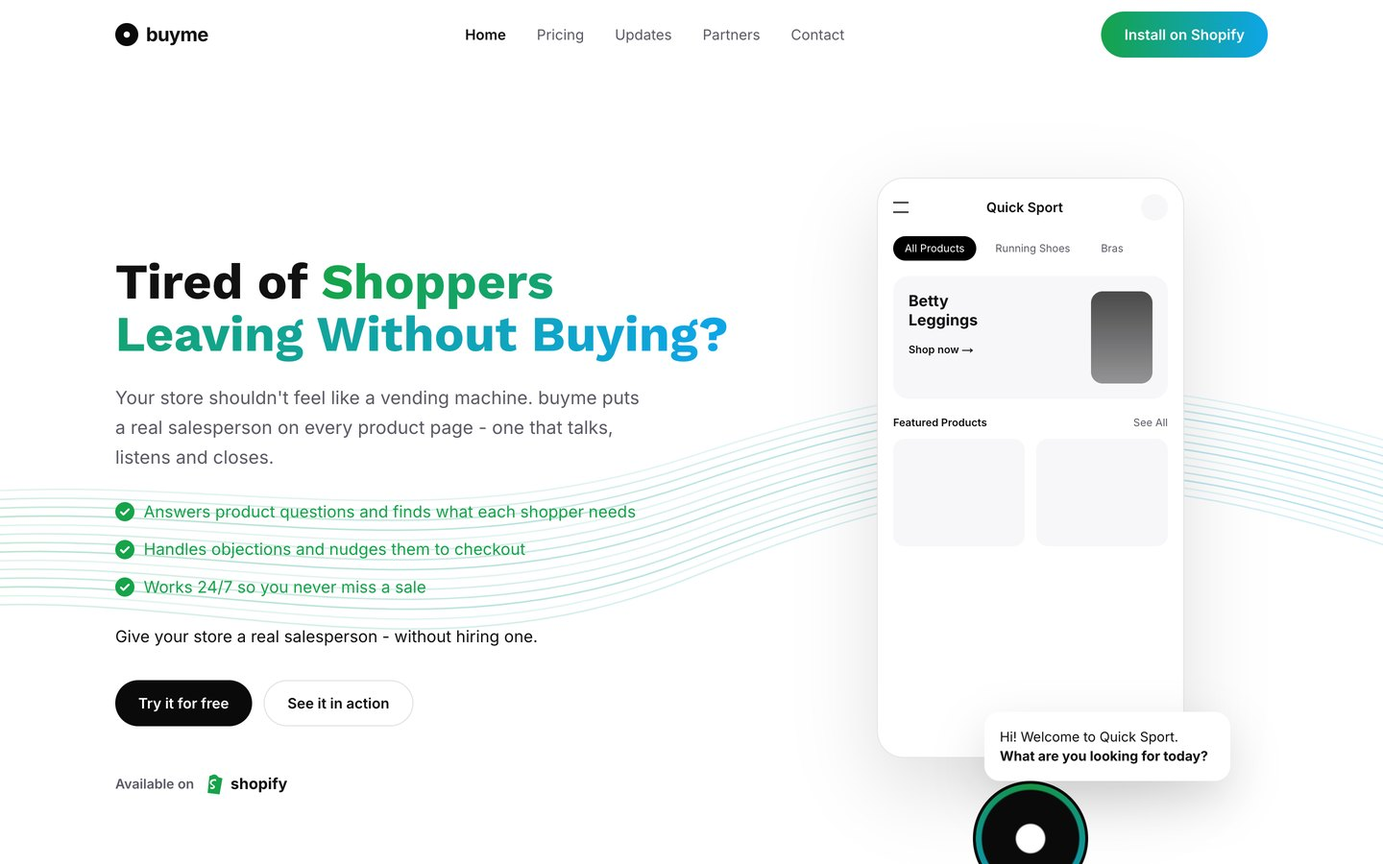
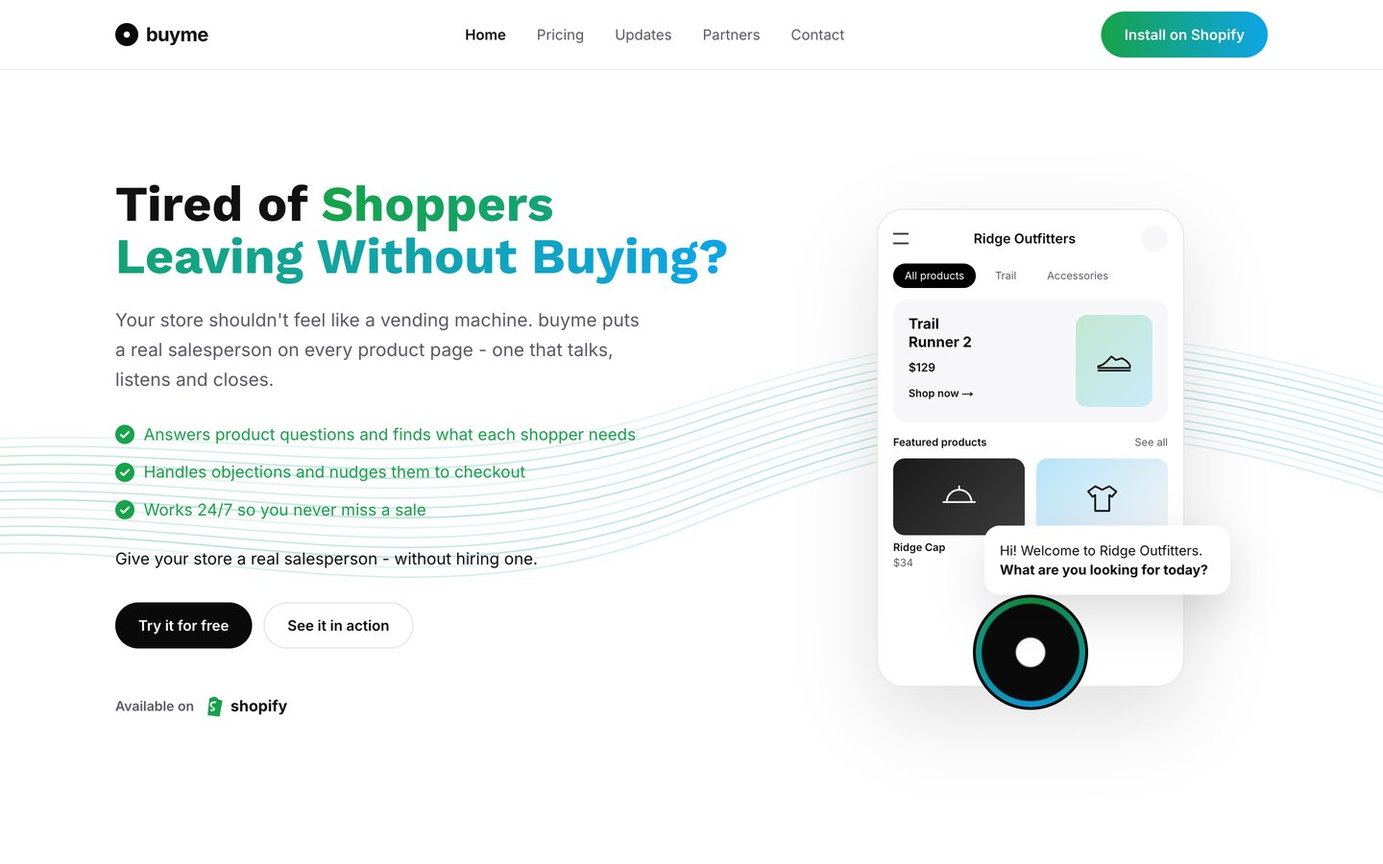
init

Changed region(s): [[0.0, 0.2178, 1.0, 1.0], [0.0938, 0.9022, 0.2188, 0.9333]]

diff --git a/scripts/record-showcase.py b/scripts/record-showcase.py
@@ -1,0 +1,120 @@
+#!/usr/bin/env python3
+"""Record the README walkthrough GIFs from the showcase builds.
+
+Needs the builds running first (any ports; pass the URLs):
+  cd output/buyme  && npm run build && npx next start -p 3127          # production, no dev overlay
+  cd output/justdo && npx expo export --platform web && \
+      python3 -c "import http.server,functools;h=http.server.SimpleHTTPRequestHandler;http.server.ThreadingHTTPServer(('',3126),functools.partial(h,directory='dist')).serve_forever()"
+  python3.12 scripts/record-showcase.py docs/showcase http://localhost:3127 http://localhost:3126
+
+Playwright (python) and ffmpeg must be installed. ONLY=buyme|justdo records one app.
+JustDo's static export lacks clean-URL routing; serve it with a handler that maps
+/week -> week.html (see the critic's notes) or record against `npx expo start --web`.
+"""
+import subprocess, sys, pathlib, shutil, time
+READY = {"t": 0.6}
+T0 = time.time()
+def log(msg): print(f"[{time.time()-T0:6.2f}s] {msg}", flush=True)
+def tap(loc, wait=800, what=""):
+    try:
+        loc.click(timeout=6000); log(f"tap {what or loc}")
+    except Exception as e:
+        log(f"SKIP {what or loc}: {str(e).splitlines()[0][:90]}")
+from playwright.sync_api import sync_playwright
+
+OUT = pathlib.Path(sys.argv[1]); OUT.mkdir(parents=True, exist_ok=True)
+BUYME = sys.argv[2] if len(sys.argv) > 2 else "http://localhost:3127"
+JUSTDO = sys.argv[3] if len(sys.argv) > 3 else "http://localhost:3126"
+HIDE = "nextjs-portal,#__next-build-watcher,[data-nextjs-toast],[data-next-badge-root]{display:none!important}"
+
+def scroll_to(page, y, ms):
+    """Animate window scroll to y over ms with ease-in-out - smooth on video, no per-event overhead."""
+    page.evaluate("""([y, ms]) => new Promise(res => {
+      const y0 = scrollY, d = y - y0, t0 = performance.now();
+      const step = t => { const k = Math.min(1, (t - t0) / ms); const e = k < .5 ? 2*k*k : -1 + (4 - 2*k)*k;
+        scrollTo(0, y0 + d*e); if (k < 1) requestAnimationFrame(step); else res(); };
+      requestAnimationFrame(step); })""", [y, ms])
+
+def smooth_scroll(page, total, step=90, pause=45):
+    done = 0
+    while done < total:
+        page.mouse.wheel(0, step); done += step; page.wait_for_timeout(pause)
+
+def to_gif(webm, gif, width, fps=10, colors=128, trim=0.6):
+    subprocess.run(["ffmpeg", "-y", "-loglevel", "error", "-ss", str(trim), "-i", str(webm),
+        "-vf", f"fps={fps},scale={width}:-1:flags=lanczos,split[a][b];[a]palettegen=max_colors={colors}:stats_mode=diff[p];[b][p]paletteuse=dither=bayer:bayer_scale=4:diff_mode=rectangle",
+        "-loop", "0", str(gif)], check=True)
+    print(gif.name, round(gif.stat().st_size / 1024), "KB")
+
+def record(p, name, w, h, mobile, run):
+    tmp = OUT / f"_{name}"; shutil.rmtree(tmp, ignore_errors=True)
+    browser = p.chromium.launch()
+    READY["t0"] = time.time()
+    ctx = browser.new_context(viewport={"width": w, "height": h}, device_scale_factor=1,
+        is_mobile=mobile, has_touch=mobile, record_video_dir=str(tmp), record_video_size={"width": w, "height": h})
+    page = ctx.new_page()
+    run(page)
+    log("run done"); video = page.video.path(); ctx.close(); log("closed")
+    dst = OUT / f"{name}.webm"; shutil.move(video, dst); shutil.rmtree(tmp, ignore_errors=True)
+    return dst
+
+def ready(page):
+    """Call once the first screen is on; the GIF is trimmed to start here."""
+    READY["t"] = max(0.0, time.time() - READY["t0"] - 0.25)
+
+def buyme(page):
+    log("goto"); page.goto(BUYME, wait_until="load"); page.add_style_tag(content=HIDE); page.wait_for_timeout(600); ready(page); log("ready")
+    page.get_by_role("link", name="Install on Shopify").first.hover(); page.wait_for_timeout(450)
+    page.get_by_role("link", name="Try it for free").first.hover(); page.wait_for_timeout(450)
+    page.mouse.move(640, 500)
+    top = lambda sel: page.locator(sel).evaluate("el => el.getBoundingClientRect().top + scrollY")
+    log("hero done"); scroll_to(page, top("#agent-features") - 60, 1100); page.wait_for_timeout(500); log("features")
+    scroll_to(page, top("#shopify") - 60, 1100); page.wait_for_timeout(500)
+    scroll_to(page, top("#install") - 60, 1000); page.wait_for_timeout(450)
+    scroll_to(page, top("#faq") - 40, 1300); page.wait_for_timeout(350); log("faq")
+    summaries = page.locator("#faq summary")
+    summaries.nth(1).click(); page.wait_for_timeout(700)
+    summaries.nth(3).click(); page.wait_for_timeout(700)
+    page.mouse.move(640, 400)
+    scroll_to(page, page.evaluate("document.documentElement.scrollHeight"), 1200)
+    page.get_by_role("link", name="Install on Shopify").last.hover(); page.wait_for_timeout(900); log("end")
+
+def tap_text(page, text, wait=900):
+    tap(page.get_by_text(text, exact=True).locator("visible=true").last, what=text); page.wait_for_timeout(wait); return True
+
+def justdo(page):
+    page.goto(JUSTDO + "/onboarding/event", wait_until="load"); page.wait_for_timeout(900); ready(page)
+    tap_text(page, "Yes", 500); tap_text(page, "Cycling", 500); tap_text(page, "Next", 1000)
+    tap_text(page, "Reach peak performance", 500); tap_text(page, "Next", 1000)
+    # drag the first rating slider
+    box = None
+    try:
+        box = page.get_by_role("slider").locator("visible=true").first.bounding_box(timeout=4000)
+    except Exception as e:
+        log(f"SKIP slider: {str(e).splitlines()[0][:80]}")
+    if box:
+        y = box["y"] + box["height"] / 2
+        page.mouse.move(box["x"] + box["width"] * 0.3, y); page.mouse.down()
+        for i in range(12): page.mouse.move(box["x"] + box["width"] * (0.3 + 0.5 * i / 11), y); page.wait_for_timeout(40)
+        page.mouse.up(); page.wait_for_timeout(500)
+    tap_text(page, "Build my plan", 1100)
+    page.mouse.move(195, 400)
+    tap(page.get_by_label("Open training calendar").locator("visible=true").last, what="calendar"); page.wait_for_timeout(1300)
+    page.mouse.click(195, 120); page.wait_for_timeout(600)
+    tap_text(page, "Week 1", 1000)
+    tap_text(page, "Types of Goals", 1100)
+    page.go_back(); page.wait_for_timeout(600); page.go_back(); page.wait_for_timeout(700)
+    tab = page.locator('a[href="/progress"]').locator("visible=true").first
+    tap(tab, what="progress tab"); page.wait_for_timeout(900)
+    tap(page.get_by_label("Focus session stats").locator("visible=true").last, what="stats"); page.wait_for_timeout(1200)
+    tap(page.get_by_label("Next skill").locator("visible=true").last, what="next skill"); page.wait_for_timeout(900)
+    page.mouse.click(195, 120); page.wait_for_timeout(500)
+    page.mouse.move(195, 500); smooth_scroll(page, 700, step=50, pause=40); page.wait_for_timeout(1000)
+
+import os
+ONLY = os.environ.get("ONLY")
+with sync_playwright() as p:
+    if ONLY in (None, "buyme"):
+        v = record(p, "buyme-walkthrough", 1280, 800, False, buyme); to_gif(v, OUT / "buyme-walkthrough.gif", 640, fps=10, colors=96, trim=READY["t"])
+    if ONLY in (None, "justdo"):
+        v = record(p, "justdo-walkthrough", 390, 844, True, justdo); to_gif(v, OUT / "justdo-walkthrough.gif", 300, fps=10, colors=96, trim=READY["t"])

diff --git a/src/designice/snapshot.py b/src/designice/snapshot.py
@@ -36,6 +36,10 @@ REVEAL_JS = (
     "document.querySelectorAll('[data-reveal]')"
     ".forEach(n => n.setAttribute('data-reveal', 'shown'))"
 )
+HYDRATED_JS = (
+    "() => !document.querySelector('[data-reveal]')"
+    " || !!document.querySelector('[data-reveal=\"shown\"]')"
+)
 # Sticky navs overlap element screenshots taken further down the page.
 UNSTICK_JS = """() => {
   for (const el of document.querySelectorAll('body *')) {
@@ -165,6 +169,13 @@ def _capture_viewport(browser, url, out, name, w, h, is_mobile, sections, settle
     page.goto(url, wait_until="networkidle", timeout=timeout_ms)
     page.add_style_tag(content=HIDE_DEV_CSS)
     page.evaluate("document.fonts ? document.fonts.ready : true")
+    # Forcing reveal-on-scroll elements visible before React has hydrated would
+    # register as a hydration mismatch, so wait until the first above-the-fold
+    # one has been revealed by the app itself (or there are none to reveal).
+    try:
+        page.wait_for_function(HYDRATED_JS, timeout=min(timeout_ms, 8000))
+    except Exception:
+        pass
     page.evaluate(REVEAL_JS)
     page.wait_for_timeout(settle_ms)
 

diff --git a/tests/test_snapshot.py b/tests/test_snapshot.py
@@ -65,6 +65,9 @@ class FakePage:
     def wait_for_timeout(self, ms):
         pass
 
+    def wait_for_function(self, script, timeout=None):
+        assert "data-reveal" in script
+
     def screenshot(self, path, full_page=False):
         self.shots.append(path)
         open(path, "wb").write(PNG)

diff --git a/docs/showcase/justdo-critique.md b/docs/showcase/justdo-critique.md
@@ -1,0 +1,57 @@
+# Critique - justdo vs mobile-app-ui-ux-designer-web-design-for-getahead-mobile-app
+
+**Verdict:** Fix 3 must-fix items, then ship
+**Reviewed:** web export at 390x844 (react-native-web, DPR 2) - `designice snapshot` per route plus a Playwright DOM pass (`verify/critique/*/mobile-full.png`, `mobile-tall.png`, `measure.json`); `/session/1` reached by client-side navigation from `/week`; `tsc --noEmit` clean. Not run on a device.
+
+## Region fidelity
+| # | Region (reference) | Build | Status | Note |
+|---|---|---|---|---|
+| 1 | My Plan header - avatar top-right, title + plan name (img1) | (tabs)/index | match | |
+| 2 | Two square cards - play disc / calendar + 4 segments (img1) | (tabs)/index | drift | "4 weeks 2 days" wraps to 2 lines (18px bold); 1 line in ref |
+| 3 | Finished-plan card - icon, title, sub, full-width accent pill (img4) | (tabs)/index | match | |
+| 4 | Week row - "Week 1 >" one line + 5 icon discs, first lit (img4) | (tabs)/index | drift | chevron drops under the title (style loss, see 1) |
+| 5 | Tab bar - 5 slots, raised + disc, active white (img1/3) | (tabs)/_layout | match | 1px top hairline not in ref |
+| 6 | - | Brands strip on My Plan / More | added | requested in the brief's section list; not flagged |
+| 7 | Onboarding event - back/progress/close, Yes/No segment, 12 chips, Next docked (img2) | onboarding/event | drift | Next inline, 220px empty below |
+| 8 | Onboarding goal - 2x2 radio cards, Next docked (img2) | onboarding/goal | drift | Next inline, 135px empty below |
+| 9 | Skills wheel + -/+ stepper (img2) | - | missing | |
+| 10 | Calendar sheet - month grid, session dots, legend (img2) | - | missing | |
+| 11 | Session detail - header over photo, 3 pill rows, recap + Start Session (img3) | session/[id] | drift | flat #141414 slab, no photo |
+| 12 | Week list - title, intro, session cards with chip row (img3/img6) | week | drift | cards lost fill, padding and tint |
+| 13 | Rating sliders - draggable glowing thumb (img3/img5) | onboarding/rating | drift | 10 tap stops, no drag, no glow |
+| 14 | Mood list - 5 pill rows, face disc, radio, selected border (img3) | (tabs)/check-in | match | |
+| 15 | Emotion chips - 2 cols, label + radio (img3) | (tabs)/check-in | drift | no radio, label centred |
+| 16 | Mental strength rating screen (img5) | onboarding/rating | match | sliders aside |
+| 17 | Progress - avatar, title, scrolling tab strip, intro, My Progress rows (img5) | (tabs)/progress | drift | tab strip fixed; 4th tab clipped |
+| 18 | Session Stats sheet - 90% ring, 3 tiles, prev / Focus / next (img6) | (tabs)/progress | drift | inline card, not a sheet; ring renders 100% |
+| - | - | Support, More, check-in title | no reference | not reviewed for fidelity |
+
+## Must fix
+1. **`Link asChild` drops every function-style on its Pressable - week cards and the Week row lose their layout** - Reference: image_original6 (left) / image_original3 (right) - each session is a #1F1F1F card, ~24px radius, ~16px padding, ~120px tall, first one tinted; image_original4 - "Week 1" and ">" share one line. Build: `verify/critique/week/mobile-full.png` - rows are 350x80 with no fill, no padding, no tint, chips flush under the disc; `verify/critique/index/mobile-full.png` - the chevron renders on its own line under "Week 1" (link box 350x48). Cause: expo-router's `Link asChild` merges its own `style` with the child's, so a function `style` becomes `[undefined, fn]` and is discarded (`styles.row`, the `${color}14` tint, `styles.weekRow` never apply; the Button inside Link survives only because its `style` prop is a plain object). Fix: `app/week.tsx` lines 40-56 and `app/(tabs)/index.tsx` lines 72-77 - drop `Link asChild`; `useRouter()` (already imported in week.tsx) and `<Pressable onPress={() => router.push({ pathname: "/session/[id]", params: { id: s.id } })} style={({ pressed }) => [...]}>` / `router.push("/week")`. If you must keep Link, move all visual styles to an inner `<View style={styles.row}>`.
+2. **Skills wheel and calendar widgets are missing** - Reference: image_original2 bottom-left - radial skills wheel: 5 coloured sectors (one per skill) over ~10 concentric rings, smiley centre, -/+ stepper with 10 segments (6 lit); bottom-right - month sheet: grabber, "< September >", Mon-Sun header, 5-row grid of round day cells, ring on today, dots on session days (12, 17, 18), "Training Sessions" legend pill. LAYOUT.md lists both (#9, #10). Build: none of the 10 routes has either (no calendar or wheel in `app/` or `components/`). Fix: `components/SkillWheel.tsx` - `npx expo install react-native-svg`; 10 concentric `Circle` rings + 5 `Path` sectors filled from `theme.colors.skill`, smiley centre, stepper row (round - / 10 segments / round +); mount under the My Progress list in `app/(tabs)/progress.tsx` (Overview tab). `components/CalendarSheet.tsx` - `Modal transparent` bottom sheet with grabber, 7-column grid of 44px round cells, dot on session days, legend pill; open it from the "4 weeks 2 days" card in `app/(tabs)/index.tsx` (wrap that Card in a Pressable).
+3. **Session Stats ring ignores its value** - Reference: image_original6 (right) - the 90% ring has a ~36 degree dark gap at the top-right, ~16px stroke. Build: `verify/critique/progress/mobile-tall.png` - the ring is #E10600 at all 24 sampled angles (0-345 degrees): a 100% ring next to a "90%" label. Cause: `components/ui/Ring.tsx` lines 20-27 paint all four border sides of both half-circles in `color`, so rotating them changes nothing. Fix: `components/ui/Ring.tsx` - once react-native-svg is in for the wheel, draw a hairline track `Circle` and an arc `Circle` with `strokeWidth={stroke} strokeDasharray={`${c * value / 100} ${c}`} strokeLinecap="round" transform="rotate(-90)"`; if you keep Views, each rotating circle must be a half-ring (`borderLeftColor` and `borderBottomColor: "transparent"`), not a full one.
+
+## Should fix
+4. **Onboarding "Next" is not docked to the bottom** - Reference: image_original2 - on both onboarding phones the white Next pill sits at the bottom edge (pill bottom ~4% above the screen edge). Build: `verify/critique/onboarding-event/mobile-full.png` - Next spans y 568-624 of 844 with 220px of empty black below; `onboarding-goal` - y 653-709, 135px empty. Fix: `components/Screen.tsx` `content: { flexGrow: 1, paddingBottom: theme.spacing.xl }`; `app/onboarding/event.tsx` and `goal.tsx` - wrap the Button in `<View style={{ marginTop: "auto", paddingTop: 24, paddingBottom: insets.bottom }}>` with `useSafeAreaInsets()`; this also gives stack screens the bottom inset that `Screen` (edges top/left/right) currently leaves to iOS-only `contentInsetAdjustmentBehavior`.
+5. **Session Stats is an inline card, the reference is a bottom sheet** - Reference: image_original6 (right) - sheet with grabber and ~28px top corners rising from ~45% of the screen over a dimmed page; ring ~62% of screen width; pager row at the sheet's foot. Build: `verify/critique/progress/mobile-tall.png` - a Card at y 801-1180 of a 1260px scroll, sixth block in the column; ring 180px (46% of width); no grabber, no scrim. Fix: `app/(tabs)/progress.tsx` - move the stats block into a `Modal transparent animationType="slide"` sheet (`backgroundColor: theme.colors.surface`, `borderTopLeftRadius/borderTopRightRadius: 28`, 36x4 grabber, scrim `rgba(0,0,0,0.6)`), opened by tapping a My Progress row; `<Ring size={240} stroke={16} />`.
+6. **Progress tab strip is fixed, so the fourth tab is unreachable** - Reference: image_original5 (right) - Overview / Achievements / Emotions / Me... runs off the right edge as a horizontally scrolling strip. Build: `verify/critique/progress/mobile-full.png` + `measure.json` - "Mental" right edge = 409px on a 390px screen inside a plain flex row, so it can never scroll into view; each tab is 36px tall (< 44). Fix: `app/(tabs)/progress.tsx` lines 37-44 - wrap the tabs in `<ScrollView horizontal showsHorizontalScrollIndicator={false} contentContainerStyle={styles.tabs}>` (add `paddingRight: 20`), and `tab: { paddingBottom: 12, minHeight: 44, justifyContent: "flex-end" }`.
+7. **Every heading is 700 Bold; the reference heads are regular/medium** - Reference: image_original1/5/6 - "My Plan", "Progress", "Goal Setting", "Mental strength rating" are regular-weight Satoshi; hierarchy comes from size (~40px vs 15px body), card titles are regular and single-line. Build: `measure.json` - 'My Plan' 34px Bold, 'Week 1' 22px Bold, every h3 Bold, because `components/ui/Text.tsx` line 25 forces `styles.bold` for display/h1/h2/h3; knock-on: "4 weeks 2 days" (18px Bold) wraps to 2 lines (45px tall) in the 129px card column. Fix: `app/_layout.tsx` load `PlusJakartaSans_500Medium`; `lib/theme.ts` add `fonts.displayMedium`; `Text.tsx` use it for display/h1/h2/h3 and keep 700 only when `bold` is passed; `app/(tabs)/index.tsx` `cardTitle` fontSize 17.
+8. **Emotion chips are missing their radio** - Reference: image_original3 (bottom-right) - 9 chips in 2 columns, label left-aligned with a ~20px radio at the right end; selected = white border + filled radio. Build: `verify/critique/check-in/mobile-tall.png` - 9 chips, label centred, no radio. Fix: `components/ui/Chip.tsx` - add `radio?: boolean` rendering the 22px radio already styled in `check-in.tsx` (`radio/radioOn/radioDot`) after the label, with `flexDirection: "row", justifyContent: "space-between", paddingHorizontal: 18`; pass `radio` at `app/(tabs)/check-in.tsx` line 49.
+9. **Session header is a flat slab, the reference is a full-bleed photograph** - Reference: image_original3 (left) - back, title and intro sit on a darkened portrait that fades to black above the info rows. Build: `verify/critique/session-1/mobile-tall.png` - #141414 block with 32px bottom corners (source comment: "gradient stand-in until an asset exists"). Fix: `app/session/[id].tsx` - `<ImageBackground source={require("@/assets/session-hero.jpg")} style={styles.hero} imageStyle={{ opacity: 0.55 }}>` with a bottom fade View to `theme.colors.ground`; generate the portrait with the higgsfield-imagery skill from DESIGN.md's "section-support" prompt (4:3, one athlete, dark, controlled contrast); give the image explicit width/height.
+10. **Rating slider cannot be dragged and its thumb has no glow** - Reference: image_original5 (left) - continuous slider, ~36px glowing thumb the user drags. Build: `verify/critique/onboarding-rating/mobile-full.png` + `measure.json` - 40 invisible tap stops of 21x44px (`role=adjustable`), no pan handling; thumb 22px; the `shadow*` glow does not render on web. Fix: `components/ui/RatingSlider.tsx` - `onLayout` to capture track x/width, a `PanResponder` on `styles.track` with `onPanResponderMove: (_, g) => onChange(clamp(Math.round((g.moveX - trackX) / trackW * 10), 1, 10))`, keep the tap stops, thumb 32px, glow via `boxShadow: \`0 0 14px ${color}\`` (RN 0.76+).
+
+## Polish
+11. **Tab shell tells** (`app/(tabs)/_layout.tsx`) - (a) all five tab routes log "Minified React error #418" (hydration mismatch) on load while every stack route is clean, so the mismatch lives in the Tabs shell (custom `PlusDisc` icon / null label, or the `height`/`paddingTop` overrides differing between static render and client); read the full message with `npx expo export --platform web --no-minify`, and gate the custom icon behind a mounted flag if that is the source. (b) 1px #313131 hairline above the bar (`verify/critique/index/mobile-full.png`, y=756) where image_original1/4 show a borderless black bar - `tabBarStyle.borderTopWidth: 0`.
+12. **Template partner claim leaks into JustDo copy** - "HYROX London 2026" (`app/(tabs)/index.tsx` line 35) and "Official mental training partner of" + NIKE / adidas / UNDER ARMOUR / HYROX / Red Bull... (`components/Brands.tsx` line 10, `app/(tabs)/more.tsx` line 25) are Getahead's own partnership claim from the reference description, now asserted for JustDo with real trademarks. Fix: a neutral event name ("City Marathon 2026"), strip title "Built with athletes from", placeholder wordmarks.
+
+Inherited: 11px uppercase chip labels (AUDIO / 5 MINS / skill) and 13px goal-card body copy match the reference's own sizes - *inherited*, below the brief's 15px floor.
+
+## Excluded by design
+colours (accent #849CFF -> #E10600, accent2 -> #FF6B35, per-skill tints, violet button/ring/thumb fills now red), fonts (Satoshi -> Plus Jakarta Sans), logo, copy wording, product name, photography subject - not reviewed.
+
+## Not verified
+- Native safe-area insets, Stack/Tabs transitions and on-device pressed states (web probe only: Next opacity 1 -> 0.7 -> 1 on press).
+- Where the reference intends the wheel and calendar to live; image_original2 shows them as widgets, not in a screen.
+- `/session/[id]` pixels come from client-side navigation in the web export (no static HTML for the dynamic route); the 404 in the earlier `session-1` manifest was the direct-URL load.
+- The browser's default orange focus outline on Tab (web export only) - not counted against a mobile target.
+- Thumb glow and card shadows on native (web export drops `shadow*`).

diff --git a/docs/showcase/buyme-critique.md b/docs/showcase/buyme-critique.md
@@ -1,0 +1,46 @@
+# Critique - buyme vs nowutalk-ai-sales-agent-for-shopify
+
+**Verdict:** Fix 1 must-fix item, then ship (8 should-fix items are worth a second pass - the structure is right, the surface is thin)
+**Reviewed:** desktop + mobile pixels (`verify/critique/`, 1440x900 and 390x844). `next build` green (run on a scratch copy so the live dev server was untouched). No console errors, no horizontal overflow at either width.
+
+Reference scale note: the Home tile in `image_original2.png` is 548px wide for a 1680px page (x0.326); reference px below are at 1680 - multiply by 0.86 to compare with the 1440px capture.
+
+## Region fidelity
+| # | Region (reference) | Build | Status | Note |
+|---|---|---|---|---|
+| 1 | nav - wordmark left, 5 links centred, gradient pill right, 1px hairline, active link bold | header | match | hairline only appears after 24px scroll |
+| 2 | hero - text ~47% left, phone mockup + chat bubble + orb right, waveform behind, 2 pills, Shopify badge | hero | drift | composition matches; phone is a wireframe with grey tiles and 36% empty screen |
+| 3 | agent-features - centred H2 (~57px) + subline, 3 gradient cards (product-card illustration + orb, title, body), accent line + black pill | agent-features | drift | H2 36px; illustrations are text bubbles only; accent line 13px |
+| 4 | shopify - left H2, 50/50: white card with full storefront mockup + badge + pill / black card (illustration left, text right) + gradient card (text left, 4 stacked payment tiles right); paragraph | shopify | drift | right cards text-only; wireframe phone; extra button; grey band |
+| 5 | install-steps - 2-line H2, "How it Works" tab, gradient band with 3 icon/title/body columns and chevrons, accent line + pill | install | drift | numbered sub-cards, no icons/chevrons/tab; band height matches (219 vs ~222px) |
+| 6 | demo - centred H2 + 2-line subline, 16:9 frame ~73% of container with photo, "Watch Demo" black pill, caption strip | demo | drift | no poster photo; bare white circle; grey band |
+| 7 | intelligence - left H2 + subline, 3x2 icon/title/body, accent line + pill | intelligence | match | H2/eyebrow scale only |
+| 8 | faq - 1/3:2/3, 7 discrete surface-filled rows on white, open row white with gradient border, chevrons | faq | drift | one white card with dividers on a grey band, 8 rows, +/x glyphs |
+| 9 | cta - black rounded banner ~2.95:1, H2 + body + dark ghost pill, app-icon tile right, waveform inside | cta | drift | 3.48:1; white pill; dead link |
+| 10 | footer - 2fr 1fr 1fr, wordmark + blurb + 4 icon glyphs, Product 5 / Legal 2, hairline, copyright | footer | match | text social labels, no hairline |
+
+## Must fix
+1. **The install funnel ends on `href="#"`** - Reference: `image_original1.png` nav "Invest" and the hero pills are page links; `home` tile CTA banner "Install on Shopify" is the closing action. Build: `desktop-cta.png` "Install on Shopify" is `href="#"` (`components/sections/Cta.tsx:23`); the nav CTA, hero "Try it for free" and all four section pills route to `#cta`, so every path ends on a link that jumps to the top. 13 `href="#"` anchors in total (CTA, wordmark, Home, 3 socials, 7 footer links). Fix: `Cta.tsx:23` -> the app-store / `/install` URL; `Footer.tsx:21,29,35` -> real routes (`/features`, `/pricing`, `/updates`, `/privacy`, `/terms`, social URLs). `Nav.tsx:60,87` can keep `#cta` once the banner link resolves.
+
+## Should fix
+2. **Section heads and accent lines are under-scaled** - Reference: every section H2 ("Meet Nowutalk...", "Built for Shopify.", "One-Click Install.", "Frequently Asked Questions", "Let Nowutalk Do the Selling") measures ~56-60px at 1680 (~49px at 1440) - the same size as the hero H1; the accent lines under each card group ("Let Nowutalk do the selling!", "That's it...", "Turn your store...") are ~21px gradient text. Build: manifest - all seven `h2` = 36px against `h1` 52px (ratio 0.69 vs ~1.0); `.eyebrow` = 13px solid accent. Fix: `app/globals.css` `--size-h2: clamp(2rem, 3.5vw, 3.25rem)`; `.eyebrow { font-size: 18px; font-weight: 600 }` and add `gradient-text` to the three eyebrow `<p>`s (`AgentFeatures.tsx:67`, `InstallSteps.tsx:41`, `Intelligence.tsx:43`).
+3. **Placeholder blocks where the reference shows product photography** - Reference: `image_original1.png` phone shows a leggings cut-out, two product photos with name + price, and the screen is filled to the orb; `home` tile reuses the same storefront inside the Shopify card; the video frame is a photo of a woman on her phone; each agent card carries a product-card mockup with the orb avatar. Build: `desktop-hero.png` phone = one grey gradient block + two empty grey tiles, and the screen is blank below 495 of 713 CSS px (36%; 47% at 390px in `mobile-hero.png`, where the chat bubble is also hidden); `desktop-shopify.png` phone = wireframe blocks; `desktop-demo.png` = radial gradient, no poster; agent cards = text bubbles only. Fix: generate with `higgsfield-imagery` - 3 product cut-outs (1:1), 1 hero product (3:4), 1 editorial 16:9 poster. `components/PhoneMockup.tsx:30,37-38` -> `<img width height>` with caption + price rows, `aspectRatio` `9/14` (or a second product row) so the orb overlaps content, and `hidden sm:block` on line 42 -> `block -right-2`; `Shopify.tsx:24-32` render `<PhoneMockup />` instead of the wireframe; `DemoVideo.tsx:23-26` add an `<img>` poster under `bg-black/40` and make the control a black pill "Watch demo" with a play glyph; `AgentFeatures.tsx` `Chat` gets `<Orb size={36} />` + a product thumbnail row.
+4. **Grey surface bands the reference does not have, and the signature waveform used once** - Reference: the Home tile is one white canvas end to end; the gradient waveform recurs at the edges of shopify (right, top), install (top-right), demo (lower corners), intelligence (top-right) and faq (left). Build: manifest - `shopify`, `demo`, `faq` backgrounds `rgb(247,247,250)`; `svg.waveform` count = 1 (hero only). Fix: `Shopify.tsx:14`, `DemoVideo.tsx:11`, `Faq.tsx:22` `tone="surface"` -> `tone="ground"`; render `<Waveform className="opacity-40 -right-1/3 -top-24" />` (etc.) in those sections plus `InstallSteps` and `Intelligence`, passing `className="relative overflow-hidden"` to `Section`.
+5. **FAQ anatomy is inverted** - Reference: 7 separate rows on white, each a surface-filled pill ~63px tall with ~18px gaps and a chevron-down at right; the open row turns white with a 1.5px gradient border and chevron-up. Build: `desktop-faq.png` - 8 rows inside one white 773x555 card with hairline dividers, on a grey band, "+"/"x" glyphs. Fix: `Faq.tsx:30` wrapper -> `space-y-3` (drop `divide-y border bg-white px-6`); each `<details>` -> `rounded-xl bg-[var(--color-surface)] px-5 py-3 open:[background:linear-gradient(#fff,#fff)_padding-box,linear-gradient(90deg,var(--color-accent),var(--color-accent2))_border-box] open:border open:border-transparent`; replace "+" with a chevron SVG `group-open:rotate-180`; drop one question to match 7.
+6. **Install band anatomy** - Reference: a black "How it Works" tab sits on the band's top-left corner; inside, three plain columns - 24px line icon (download / bag / bolt) -> bold title -> body with a bold phrase - separated by thin "›" chevrons; no sub-cards. Build: `desktop-install.png` - three translucent sub-cards with "01/02/03" numerals, no icons, no chevrons, no tab. Fix: `InstallSteps.tsx:28-37` - remove `rounded-2xl bg-white/12 p-5 backdrop-blur-sm` from `<li>`, replace `{s.n}` with an inline 24px SVG icon per step (`stroke="currentColor" strokeWidth="1.8"`), add an `aria-hidden` "›" span between columns on `md:`, and insert `<span className="ml-6 inline-block rounded-t-xl bg-[#0A0A0A] px-4 py-2 text-[13px] font-semibold text-white">How it works</span>` directly above the band.
+7. **Shopify right-column cards are text-only** - Reference: black card is ~45/55 - two product tiles + orb + "These 2 items are on sale!" bubble left, title + body right; gradient card is bubble + orb + title/body left and four stacked white payment tiles (Shop Pay, PayPal, G Pay, Apple Pay, ~130x44 each) right. Build: `desktop-shopify.png` - black card = title, body, quote box; gradient card = title, body, four inline 12px chips. Fix: `Shopify.tsx:42-65` - each `article` -> `grid gap-6 md:grid-cols-[1fr_1.2fr] items-center`; black card left cell = two mini `card-white` product tiles + `<Orb size={72} />` + the existing quote box as the bubble; gradient card right cell = `ul grid gap-2` of four `rounded-xl bg-white px-4 py-3 text-[14px] font-bold text-[var(--color-ink)]` tiles.
+8. **CTA banner proportion and button role** - Reference: banner ~1426x483 at 1680 (2.95:1), H2 two lines ~60px, button is a dark ghost pill (dark fill, 1px light border, white text), waveform lines inside the card. Build: `desktop-cta.png` - 1200x345 (3.48:1), H2 36px, solid white pill. Fix: `Cta.tsx:14` `md:p-12` -> `md:p-16 md:min-h-[410px]`; add `<Waveform className="opacity-30 -bottom-40" />` inside the card; `globals.css` `.btn-inverse` -> `background:#1A1A1A; color:#fff; border:1px solid rgba(255,255,255,.3)`.
+9. **Mobile tap targets under 44px** - Reference: no mobile capture; measured against the 44px floor. Build (390px, Playwright): FAQ `summary` hit area 292x26 (the `py-4` sits on `<details>`, not on the toggle), footer links 17px tall on 8px gaps, hamburger 40x40, wordmark 28px. Fix: `Faq.tsx:32-33` move `py-4` from `<details>` to `<summary>`; `Footer.tsx:28,34` links -> `inline-block py-2`; `Nav.tsx:64` `p-2` -> `p-2.5`.
+
+## Polish
+10. **Nav hairline hidden on load** - Reference: `image_original1.png` shows the 1px line under the nav at scroll 0. Build: `desktop-viewport.png` has none; `Nav.tsx:32` uses `border-transparent` until `scrollY > 24`. Fix: `border-black/8` in both branches.
+11. **Footer details** - Reference: four social icon glyphs (facebook, twitter, instagram, tiktok), Product 5 / Legal 2, hairline above the copyright. Build: `desktop-footer.png` - text labels "X LinkedIn YouTube", Product 4 / Legal 3, no hairline. Fix: `Footer.tsx:18-24` -> 20px inline-SVG glyphs; `Footer.tsx:39` add `border-t border-black/8 pt-6`. Small footer type (13-14px) is *inherited* from the reference.
+12. **An addition and verbatim template demo content** - Reference: nothing under the Shopify paragraph. Build: `Shopify.tsx:76` adds a "See how it installs" pill (LAYOUT.md's "paragraph + button" is wrong; the image outranks it). `PhoneMockup.tsx:17-44` copies the template's demo store word for word ("Quick Sport", "Betty Leggings", "Hi! Welcome to Quick Sport"). Fix: delete `Shopify.tsx:76`; rename the demo store and product in `PhoneMockup.tsx`.
+
+## Excluded by design
+colours (accent #7B3FE4 -> #16A34A, accent2 #E040A0 -> #0EA5E9, and every fill/stroke/text that carries them), fonts (Work Sans / Inter), logo mark and wordmark, copy wording, product name, photography subject - not reviewed.
+
+## Not verified
+- Reference mobile layout: `design-reference/` has no mobile capture, so mobile was checked only for overflow (none), reading order (matches desktop), and the 44px / 15px floors.
+- Reference nav stickiness, hover/press states and the waveform drift: static images only. Build states were read from source and Playwright (accordion is exclusive via `details[name]`; mobile menu opens and closes; focus ring is a custom ink outline; reduced motion honoured).
+- The demo video itself - the reference frame is a poster; the build has no media element yet.

diff --git a/README.md b/README.md
@@ -59,6 +59,11 @@ platform, and optionally colours and fonts.
 
 ![buyme - Next.js, matched to the NowUtalk template](docs/showcase/buyme-web.jpg)
 
+Scroll, hover, the FAQ accordion and the closing call to action, recorded from the
+finished build:
+
+![buyme walkthrough](docs/showcase/buyme-walkthrough.gif)
+
 **A mental-fitness app for athletes, mobile.** Matched the Getahead template; the phone
 layout is derived from its desktop capture:
 
@@ -67,6 +72,20 @@ layout is derived from its desktop capture:
 ```
 
 ![JustDo - Expo / React Native, matched to the Getahead template](docs/showcase/justdo-mobile.jpg)
+
+Onboarding with draggable rating sliders, the plan and its calendar sheet, a week of
+sessions, the session-stats sheet and the skills wheel:
+
+![JustDo walkthrough](docs/showcase/justdo-walkthrough.gif)
+
+Both builds went through one critique pass before these captures. The `design-critic`
+agent put each next to its template and returned twelve findings apiece - a storefront
+mockup that was still a wireframe, section heads at 0.7x the reference scale, a FAQ
+with the wrong anatomy, session cards that had lost their fill to a style-merging
+`Link`, a stats ring that ignored its value, a calendar sheet and a skills wheel that
+were missing altogether - and the builder applied them. The reports it wrote are in
+[buyme-critique.md](docs/showcase/buyme-critique.md) and
+[justdo-critique.md](docs/showcase/justdo-critique.md).
 
 More prompts that work:
 
